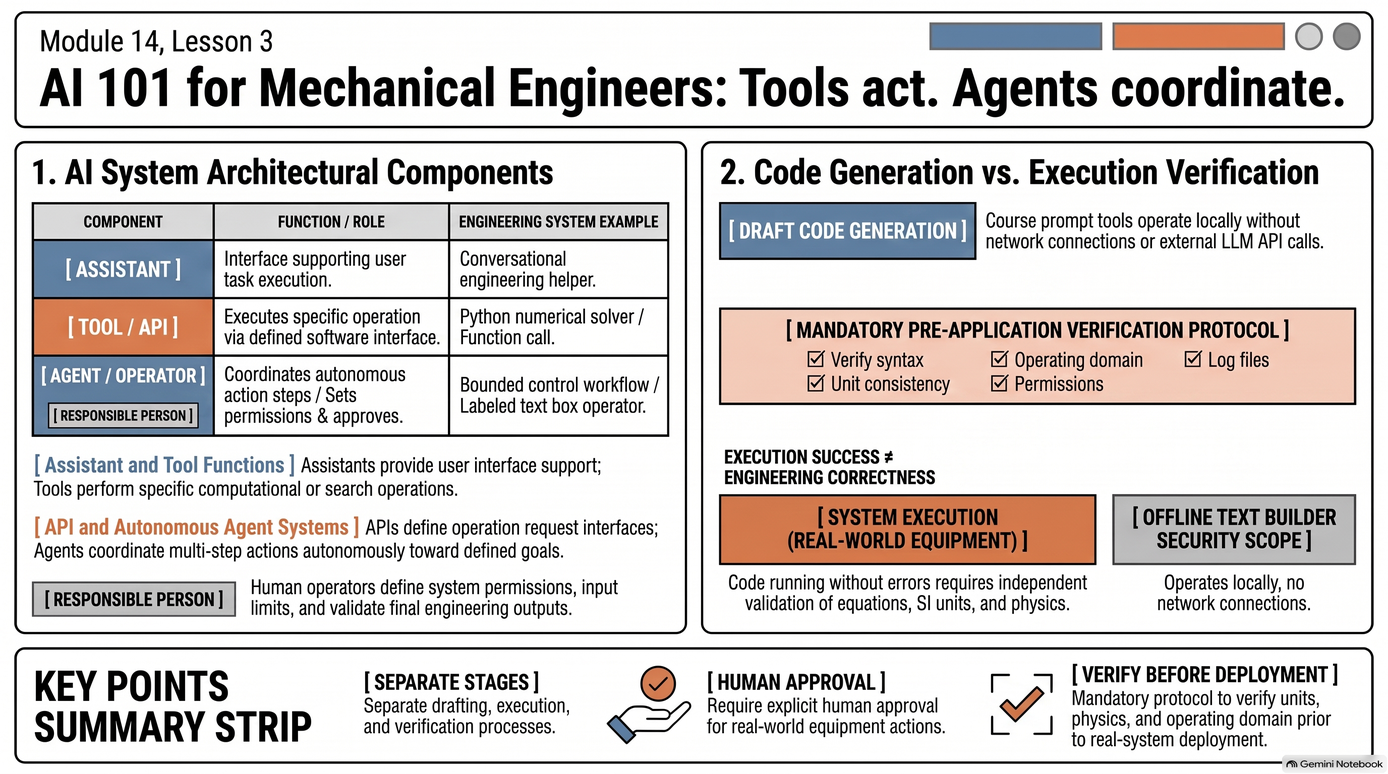
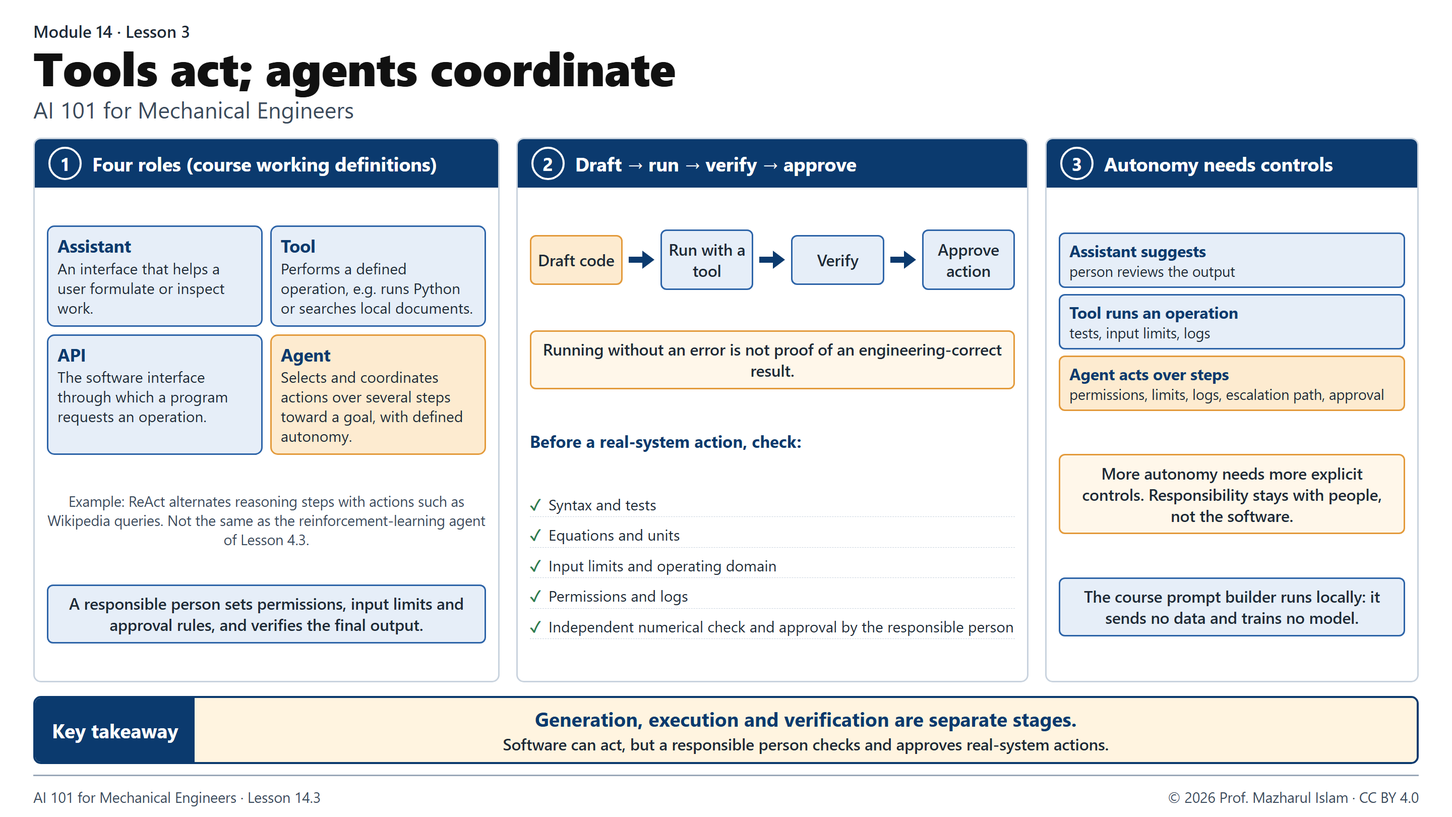
AI 101 Module 14: replace lesson infographics with revised versions
Rebuild 14.1-14.3 from the lesson texts in the course infographic style
and update their alt text.

diff --git a/AI101/AI_101_for_Mechanical_Engineers.html b/AI101/AI_101_for_Mechanical_Engineers.html
@@ -159,7 +159,7 @@ if(review.mindMap)h.append(E('h3',{text:'Gemini Notebook'}),E('p',{},E('a',{href
 h.append(E('h3',{text:'Flashcards'}));deck(h,m.id);h.append(E('div',{class:'actions'},link('Proceed to Quiz',`#/m/${m.num}/quiz`,'btn primary')));
 }
 function modulePage(h,r){let m=MODS[r.n-1];title(h,'Module '+m.num+' / 16',m.title);let tabs=E('nav',{'aria-label':'Module sections',class:'tabs'});m.lessons.forEach((l,i)=>tabs.append(link((P.lessons[l.id]?'✓ ':'')+(i+1)+'. '+l.title,`#/m/${m.num}/${i+1}`,r.sub===String(i+1)?'active':'')));if(WALK[m.id])tabs.append(link('Code',`#/m/${m.num}/code`,r.sub==='code'?'active':''));tabs.append(link('Review',`#/m/${m.num}/review`,['review','cards'].includes(r.sub)?'active':''),link('Quiz',`#/m/${m.num}/quiz`,r.sub==='quiz'?'active':''));h.append(tabs);if(r.sub==='quiz'){let region=E('div');h.append(region);quiz(region,m.id);return;}if(r.sub==='code'){codePage(h,m);return;}if(['review','cards'].includes(r.sub)){moduleReview(h,m);return;}let l=m.lessons[+r.sub-1];h.append(E('h2',{text:l.title}));let outcomes=E('details',{},E('summary',{text:'Module learning outcomes'}));let ul=E('ul');m.outcomes.forEach(o=>ul.append(E('li',{text:o})));outcomes.append(ul);h.append(outcomes);prose(h,l.text);
-const media={m01l1:{video:'5PXqVJoDBgI',audio:'media/1_1-The_Math_Behind_Industrial_AI.m4a',image:'media/1_1-Relationships_Among_AI_Concepts.png',alt:'Lesson 1.1 infographic: AI contains machine learning, which contains deep learning; classification predicts a category while generation produces content; different components need different checks; data science runs from measure and clean to analyse, model and communicate'},m01l2:{video:'FSDlKaTM3Ws',audio:'media/1_2-How_Engineers_Distinguish_AI_From_Automation.m4a',image:'media/1_2-Automation_and_AI_Engineering_Concepts.png',alt:'Lesson 1.2 infographic: a fixed-rule thermostat example of automation; robots sense, decide and act using conventional control, AI or both; narrow AI compared with proposed AGI; five questions on inputs, learned components, outputs, permitted actions and failure consequences'},m01l3:{video:'MOJL4aPNaBY',audio:'media/1_3-Engineering_Decisions_Must_Come_Before_AI.m4a',image:'media/1_3-Defining_an_Engineering_Decision.png',alt:'Lesson 1.3 infographic: deciding whether to request a pump inspection, from measurements through a learned detector, fault score, engineering review and decision; a score is an estimate; operating domain and escalation path; limits of synthetic examples'},m02l1:{video:'ND8u7CSiTqs',audio:'media/2_1-Why_Mechanical_Engineering_Needs_Hybrid_AI.m4a',image:'media/2_1.png',alt:'Lesson 2.1 infographic: physics-based, data-driven and hybrid models compared; pump example with hydraulic power 100,000 Pa × 0.02 m³/s = 2,000 W and input power 2,000 W / 0.8 = 2,500 W; residual r = 2,800 W − 2,500 W = +300 W shows a difference but not its cause'},m02l2:{video:'p4ldXqJdehc',audio:'media/2_2-Why_Mechanical_Engineers_Need_Hybrid_AI.m4a',image:'media/2_2.png',alt:'Lesson 2.2 infographic: table matching prediction, forecasting, diagnosis, control and optimization to what each does and an example; ML training optimization changes model parameters to reduce loss, while engineering optimization changes design or operating variables within physical constraints'},m02l3:{video:'Ldz3IBLDv_Y',audio:'media/2_3-How_Mechanical_Engineers_Use_AI.m4a',image:'media/2_3.png',alt:'Lesson 2.3 infographic: start with the simplest adequate method; when ML might help; four checks of purpose, inputs, baseline and coverage; hybrid pump example with a +300 W residual; compare with the baseline before adding complexity'},m03l1:{video:'bUh9kmRi0_g',audio:'media/3_1-Mapping_Heavy_Machinery_to_Machine_Learning.m4a',image:'media/3_1.png',alt:'Lesson 3.1 infographic: dataset, sample, features, target and label; a pump-test table with flow, pressure rise and shaft speed as features X and measured electrical power as target y; X has shape (120, 3) and y has shape (120,); keep each row matched by test ID'},m03l2:{video:'N0vvkVlTw2o',audio:'media/3_2-Why_Engineering_AI_Needs_Sensor_Metadata.m4a',image:'media/3_2.png',alt:'Lesson 3.2 infographic: metadata such as units, sensor ID, calibration and sampling frequency; raw readings versus a windowed RMS feature; machine IDs and ordinal or nominal categories are not measurements; ground truth is a reference that can contain errors'},m03l3:{video:'O9RXTf5J5-s',audio:'media/3_3-Why_Predictive_AI_Fails_Without_Physics.m4a',image:'media/3_3.png',alt:'Lesson 3.3 infographic: a timeline showing that a repair code recorded after a failure is information leakage for an earlier warning; correlation, prediction and causation compared using flow rate and motor current'},m04l1:{video:'rfXJ_JKeYUs',audio:'media/4_1.m4a',image:'media/4_1.png',alt:'Lesson 4.1 infographic: supervised learning with regression and classification; unsupervised clustering, where a cluster is not automatically a fault category; anomaly alerts that need investigation and independent evidence; semi-supervised learning'},m04l2:{video:'C5h-mjjw18o',audio:'media/4_2.m4a',image:'media/4_2.png',alt:'Lesson 4.2 infographic: masked-signal reconstruction in four steps of observation, constructed input, constructed target and objective; a neural network can use supervised, self-supervised or reinforcement feedback, so architecture does not determine the learning setup'},m04l3:{video:'fgg8jxrDiJw',audio:'media/4_3.m4a',image:'media/4_3.png',alt:'Lesson 4.3 infographic: agent and simulated environment exchanging actions, state and reward; thermal-control example mapping state, action, environment, reward and policy; reward and safety constraints kept separate, beginning with bounded simulation'},m05l1:{video:'0xyZPsXtMyY',audio:'media/5_1.m4a',image:'media/5_1.png',alt:'Lesson 5.1 infographic: warning signs such as negative absolute pressure, duplicate timestamps and mixed W and kW; investigate missing readings before imputing; mean imputation of 20, 22, missing, 24 gives 22, which reduces visible variation; learn replacement values from training data only'},m05l2:{video:'DM1sfD_7cyk',audio:'media/5_2.m4a',image:'media/5_2.png',alt:'Lesson 5.2 infographic: min-max scaling with 25 °C in bounds 0–100 °C giving 0.25; standardization with x = 60 °C, training mean 40 °C and standard deviation 10 °C giving z = 2; one-hot encoding of categories A, B and C; fit on training data and apply stored rules'},m05l3:{video:'6oYBKyxmUFc',audio:'media/5_3.m4a',image:'media/5_3.png',alt:'Lesson 5.3 infographic: build features such as hydraulic power P_h = Δp × Q from engineering knowledge; exclude readings after prediction time; split, fit on training folds, store and apply without refitting; record the input contract of units, missing-value rules and derived features'},m06l1:{video:'M3Wq88DQj0s',audio:'media/6_1.m4a',image:'media/6_1.png',alt:'Lesson 6.1 infographic: a linear model ŷ = b0 + b1·x maps input to prediction while a learning algorithm such as least squares fits its parameters; training, inference and retraining are separate; worked example ŷ = 2 + 3 × 4 = 14'},m06l2:{video:'4SjSZjJOXro',audio:'media/6_2.m4a',image:'media/6_2.png',alt:'Lesson 6.2 infographic: learned parameters, hyperparameters and supplied physical values have different roles; training loss differs from engineering acceptance criteria; MAE and MSE weight errors differently, and a low training loss does not establish safe use'},m06l3:{video:'RSWwn7m9Ph4',audio:'media/6_3.m4a',image:'media/6_3.png',alt:'Lesson 6.3 infographic: compare with a fair baseline on the same examples; the physical baseline MAE of 0.8 kW beats the ML model MAE of 1.2 kW; record the context of a result; a random seed helps repeat a procedure but does not prove accuracy'},m07l1:{video:'M8Mqp4O3bAs',audio:'media/7_1.m4a',image:'media/7_1.png',alt:'Lesson 7.1 infographic: the model ΔT = b0 + b1·P with units K, W, K and K/W; with b0 = 1 K, b1 = 0.6 K/W and P = 10 W the predicted rise is 7 K, and a measured 8 K gives residual +1 K; least squares fits the coefficients, inference applies them'},m07l2:{video:'uvZOy3Jhj5Y',audio:'media/7_2.m4a',image:'media/7_2.png',alt:'Lesson 7.2 infographic: signed residuals of +1, −2 and +3 K; MAE = 2 K and RMSE ≈ 2.160 K, both in target units; R² = 1 − SSE/SST is dimensionless and about −0.1053 here, worse than predicting the mean; inspect residuals by operating condition'},m07l3:{video:'2Czwc72Fchc',audio:'media/7_3.m4a',image:'media/7_3.png',alt:'Lesson 7.3 infographic: define the prediction problem; keep training, validation and final test separate; compare with training-mean and physical baselines and match the split to the task; report units, provenance, held-out metrics and operating limits'},m08l1:{video:'NKojhzCHcZE',audio:'media/8_1.m4a',image:'media/8_1.png',alt:'Lesson 8.1 infographic: a model score is compared with a threshold to predict fault or healthy; a score between 0 and 1 is not automatically a calibrated probability; choose the threshold on validation data; confusion matrix with fault as the positive class showing TP, FN, FP and TN'},m08l2:{video:'zOTYwt-Tr54',audio:'media/8_2.m4a',image:'media/8_2.png',alt:'Lesson 8.2 infographic: with TP = 8, FP = 2, FN = 4 and TN = 86, accuracy is 94%, precision 80%, recall about 66.7% and F1 about 72.7%; each metric answers a different question, and high accuracy alone does not describe fault detection'},m08l3:{video:'b0OM6lczsRk',audio:'media/8_3.m4a',image:'media/8_3.png',alt:'Lesson 8.3 infographic: with 99 healthy cases and 1 fault, always predicting healthy gives 99% accuracy but 0% fault recall; select the threshold on validation and test it separately; an alert leads to evidence review and an authorized decision, weighing false alarms against missed faults'},m09l1:{video:'y80ne8Vybo4',audio:'media/9_1.m4a',image:'media/9_1.png',alt:'Lesson 9.1 infographic: linear regression predicts a number from weighted features; logistic regression estimates a class probability through a link function; k-nearest neighbours uses nearby examples in feature space; a support vector machine learns a separating boundary with a margin; units and scaling change distances; choose methods by evidence'},m09l2:{video:'2YmEhBzF2MY',audio:'media/9_2.m4a',image:'media/9_2.png',alt:'Lesson 9.2 infographic: a decision tree partitions inputs into piecewise regions; a random forest aggregates randomized trees built independently; boosting adds models in sequence to correct remaining errors; a table of each method’s practical concern; learned thresholds are not physical fault limits'},m09l3:{video:'9APUCDA6pVk',audio:'media/9_3.m4a',image:'media/9_3.png',alt:'Lesson 9.3 infographic: k-means groups unlabelled data around chosen centres, and k is not a count of faults; PCA projects data onto high-variance directions, which may miss a rare fault; compare candidates with the same folds and a locked final test; scaling affects distances'},m10l1:{video:'B279XXNadbY',audio:'media/10_1.m4a',image:'media/10_1.png',alt:'Lesson 10.1 infographic: training fits parameters, validation chooses settings and the final test assesses the locked procedure; five-fold cross-validation of 100 examples trains on 80 and validates on 20 each round; match the split to forecasting, unseen equipment or independent designs; many rows do not prove independence'},m10l2:{video:'uMrToW1n1Vg',audio:'media/10_2.m4a',image:'media/10_2.png',alt:'Lesson 10.2 infographic: underfitting misses a relationship while overfitting follows training-specific detail; regularization adds penalties or constraints and L1 can zero coefficients; early stopping selects a checkpoint where validation loss starts to rise, never using the final test'},m10l3:{video:'ZQJwwFjbULQ',audio:'media/10_3.m4a',image:'media/10_3.png',alt:'Lesson 10.3 infographic: four leakage routes of preprocessing, future readings, outcome-derived inputs and duplicate events; fit transformations only inside training folds; exclude the reading at t+1 from a feature for prediction time t; lock the procedure before the final test and record split identifiers, seeds and versions'},m11l1:{video:'6kmxgxU5OtU',audio:'media/11_1.m4a',image:'media/11_1.png',alt:'Lesson 11.1 infographic: a neuron multiplies inputs by weights, adds a bias and applies ReLU, worked to z = 0.2 and a = 0.2; ReLU maps −3 to 0, 0.2 to 0.2 and 2 to 2; three affine layers in series collapse to one affine map y = W′x + b′ with W′ = W₃W₂W₁ and b′ = W₃W₂b₁ + W₃b₂ + b₃, linear only when b′ = 0; values are dimensionless by convention'},m11l2:{video:'HpPJ6ckgXU4',audio:'media/11_2.m4a',image:'media/11_2.png',alt:'Lesson 11.2 infographic: one training step runs prediction, loss L, backpropagation, gradient ∇θL, optimizer and new parameters; the update θ_new = θ_old − η∇θL with θ_old = 2.0, gradient 0.5 and η = 0.1 gives 1.95; the learning rate is a training setting; one update proves neither convergence nor physical validity'},m11l3:{video:'yGjRY3dHNCw',audio:'media/11_3.m4a',image:'media/11_3.png',alt:'Batches, epochs, validation checkpoints and generalization limits infographic'},m12l1:{video:'3mFpYxI7084',audio:'media/12_1.m4a',image:'media/12_1.png',alt:'Lesson 12.1 infographic: tabular data, images and signals need different representations; an MLP processes feature vectors and a CNN applies shared local filters to pixels; a filter response is not a confirmed defect; hold out whole components so test components stay unseen'},m12l2:{video:'iQtAabOUAOw',audio:'media/12_2.m4a',image:'media/12_2.png',alt:'Lesson 12.2 infographic: an RNN carries a hidden state from step to step and an LSTM adds mechanisms to retain information; a transformer weights positions with attention, which does not prove a physical cause; use only inputs available at the forecast issue time'},m12l3:{video:'o1sjsbKAx9c',audio:'media/12_3.m4a',image:'media/12_3.png',alt:'Lesson 12.3 infographic: 15-minute data give 96 samples per day only when complete, so align by timestamps; the forecast horizon runs from issue time to target time; overlapping windows share samples and need chronological or event-level splits'},m13l1:{video:'5BVmXgZNgpg',audio:'media/13_1.m4a',image:'media/13_1.png',alt:'Lesson 13.1 infographic: a language model continues a token sequence, and fluent output is not proof of correct equations, references or assumptions; LLM, foundation model and multimodal model answer different questions; diffusion models reverse a noising process and GANs train a generator against a discriminator; generated explanations, drawings and code need checking, and code must be executed and tested'},m13l2:{video:'Se06_TxJul8',audio:'media/13_2.m4a',image:'media/13_2.png',alt:'Lesson 13.2 infographic: a tokenizer splits text into model-specific units, so word counts do not give token counts; the context window bounds what the model can use and a larger window does not guarantee correct use; the word cell needs its system stated; embeddings are vectors and nearby vectors help retrieve passages without proving a claim'},m13l3:{video:'XoYcvrMW2y8',audio:'media/13_3.m4a',image:'media/13_3.png',alt:'Lesson 13.3 infographic: pretraining and fine-tuning update weights and transfer learning does so only when fine-tuned; zero-shot prompts, few-shot prompts and retrieval supply context without updating weights during the query; the worked case classifies example summaries, a retrieved manual passage and fine-tuning; weight behaviour is not a data-retention policy'},m14l1:{video:'1XHxHqd6P0k',audio:'media/14_1.m4a',image:'media/14_1.png',alt:'Engineering prompt structure and verification infographic'},m14l2:{video:'7oluOfQTwac',audio:'media/14_2.m4a',image:'media/14_2.png',alt:'Retrieval-augmented generation, evidence checks and inference-time context infographic'},m14l3:{video:'-ZsxFY5h02I',audio:'media/14_3.m4a',image:'media/14_3.png',alt:'Engineering tools, APIs, agent coordination and human oversight infographic'},m15l1:{video:'dNbzZDsyR_I',audio:'media/15_1.m4a',image:'media/15_1.png',alt:'Lesson 15.1 infographic: aleatoric uncertainty is variation in observations and epistemic uncertainty is limited knowledge; a point inside the min–max input range can still lack nearby data, so interpolation needs validation and confidence does not justify extrapolation; distribution shift is a difference between data distributions, drift is change over time that can be abrupt, gradual or recurring, and concept drift changes the input–target relationship'},m15l2:{video:'ZDOon3TWimU',audio:'media/15_2.m4a',image:'media/15_2.png',alt:'Verification versus validation, independent physical evidence, provenance and reproducibility infographic'},m15l3:{video:'Kg4aBcgdeC8',audio:'media/15_3.m4a',image:'media/15_3.png',alt:'Output verification, privacy and security, human oversight, disclosure and resource responsibility infographic'},m16l1:{video:'9Q3hvMOewXg',audio:'media/16_1.m4a',image:'media/16_1.png',alt:'Lesson 16.1 infographic: surrogates screen candidates but promising designs need re-evaluation, verification and physical validation; objectives and constraints are separate and infeasible designs fail a limit; a digital model has only manual data exchange, a digital shadow receives data automatically from equipment and a digital twin exchanges data automatically both ways, with definitions varying; physics-informed learning adds an equation residual to the loss and a PINN is one approach, not one architecture'},m16l2:{video:'O-9Nl2pD5po',audio:'media/16_2.m4a',image:'media/16_2.png',alt:'Mini-project scoping, data provenance, fair evaluation, baselines, metrics and reproducibility infographic'},m16l3:{video:'59A56rQ40ts',audio:'media/16_3.m4a',image:'media/16_3.png',alt:'Browser knowledge score versus practical evidence, mini-project rubric, reproducibility and responsible AI-use infographic'}};
+const media={m01l1:{video:'5PXqVJoDBgI',audio:'media/1_1-The_Math_Behind_Industrial_AI.m4a',image:'media/1_1-Relationships_Among_AI_Concepts.png',alt:'Lesson 1.1 infographic: AI contains machine learning, which contains deep learning; classification predicts a category while generation produces content; different components need different checks; data science runs from measure and clean to analyse, model and communicate'},m01l2:{video:'FSDlKaTM3Ws',audio:'media/1_2-How_Engineers_Distinguish_AI_From_Automation.m4a',image:'media/1_2-Automation_and_AI_Engineering_Concepts.png',alt:'Lesson 1.2 infographic: a fixed-rule thermostat example of automation; robots sense, decide and act using conventional control, AI or both; narrow AI compared with proposed AGI; five questions on inputs, learned components, outputs, permitted actions and failure consequences'},m01l3:{video:'MOJL4aPNaBY',audio:'media/1_3-Engineering_Decisions_Must_Come_Before_AI.m4a',image:'media/1_3-Defining_an_Engineering_Decision.png',alt:'Lesson 1.3 infographic: deciding whether to request a pump inspection, from measurements through a learned detector, fault score, engineering review and decision; a score is an estimate; operating domain and escalation path; limits of synthetic examples'},m02l1:{video:'ND8u7CSiTqs',audio:'media/2_1-Why_Mechanical_Engineering_Needs_Hybrid_AI.m4a',image:'media/2_1.png',alt:'Lesson 2.1 infographic: physics-based, data-driven and hybrid models compared; pump example with hydraulic power 100,000 Pa × 0.02 m³/s = 2,000 W and input power 2,000 W / 0.8 = 2,500 W; residual r = 2,800 W − 2,500 W = +300 W shows a difference but not its cause'},m02l2:{video:'p4ldXqJdehc',audio:'media/2_2-Why_Mechanical_Engineers_Need_Hybrid_AI.m4a',image:'media/2_2.png',alt:'Lesson 2.2 infographic: table matching prediction, forecasting, diagnosis, control and optimization to what each does and an example; ML training optimization changes model parameters to reduce loss, while engineering optimization changes design or operating variables within physical constraints'},m02l3:{video:'Ldz3IBLDv_Y',audio:'media/2_3-How_Mechanical_Engineers_Use_AI.m4a',image:'media/2_3.png',alt:'Lesson 2.3 infographic: start with the simplest adequate method; when ML might help; four checks of purpose, inputs, baseline and coverage; hybrid pump example with a +300 W residual; compare with the baseline before adding complexity'},m03l1:{video:'bUh9kmRi0_g',audio:'media/3_1-Mapping_Heavy_Machinery_to_Machine_Learning.m4a',image:'media/3_1.png',alt:'Lesson 3.1 infographic: dataset, sample, features, target and label; a pump-test table with flow, pressure rise and shaft speed as features X and measured electrical power as target y; X has shape (120, 3) and y has shape (120,); keep each row matched by test ID'},m03l2:{video:'N0vvkVlTw2o',audio:'media/3_2-Why_Engineering_AI_Needs_Sensor_Metadata.m4a',image:'media/3_2.png',alt:'Lesson 3.2 infographic: metadata such as units, sensor ID, calibration and sampling frequency; raw readings versus a windowed RMS feature; machine IDs and ordinal or nominal categories are not measurements; ground truth is a reference that can contain errors'},m03l3:{video:'O9RXTf5J5-s',audio:'media/3_3-Why_Predictive_AI_Fails_Without_Physics.m4a',image:'media/3_3.png',alt:'Lesson 3.3 infographic: a timeline showing that a repair code recorded after a failure is information leakage for an earlier warning; correlation, prediction and causation compared using flow rate and motor current'},m04l1:{video:'rfXJ_JKeYUs',audio:'media/4_1.m4a',image:'media/4_1.png',alt:'Lesson 4.1 infographic: supervised learning with regression and classification; unsupervised clustering, where a cluster is not automatically a fault category; anomaly alerts that need investigation and independent evidence; semi-supervised learning'},m04l2:{video:'C5h-mjjw18o',audio:'media/4_2.m4a',image:'media/4_2.png',alt:'Lesson 4.2 infographic: masked-signal reconstruction in four steps of observation, constructed input, constructed target and objective; a neural network can use supervised, self-supervised or reinforcement feedback, so architecture does not determine the learning setup'},m04l3:{video:'fgg8jxrDiJw',audio:'media/4_3.m4a',image:'media/4_3.png',alt:'Lesson 4.3 infographic: agent and simulated environment exchanging actions, state and reward; thermal-control example mapping state, action, environment, reward and policy; reward and safety constraints kept separate, beginning with bounded simulation'},m05l1:{video:'0xyZPsXtMyY',audio:'media/5_1.m4a',image:'media/5_1.png',alt:'Lesson 5.1 infographic: warning signs such as negative absolute pressure, duplicate timestamps and mixed W and kW; investigate missing readings before imputing; mean imputation of 20, 22, missing, 24 gives 22, which reduces visible variation; learn replacement values from training data only'},m05l2:{video:'DM1sfD_7cyk',audio:'media/5_2.m4a',image:'media/5_2.png',alt:'Lesson 5.2 infographic: min-max scaling with 25 °C in bounds 0–100 °C giving 0.25; standardization with x = 60 °C, training mean 40 °C and standard deviation 10 °C giving z = 2; one-hot encoding of categories A, B and C; fit on training data and apply stored rules'},m05l3:{video:'6oYBKyxmUFc',audio:'media/5_3.m4a',image:'media/5_3.png',alt:'Lesson 5.3 infographic: build features such as hydraulic power P_h = Δp × Q from engineering knowledge; exclude readings after prediction time; split, fit on training folds, store and apply without refitting; record the input contract of units, missing-value rules and derived features'},m06l1:{video:'M3Wq88DQj0s',audio:'media/6_1.m4a',image:'media/6_1.png',alt:'Lesson 6.1 infographic: a linear model ŷ = b0 + b1·x maps input to prediction while a learning algorithm such as least squares fits its parameters; training, inference and retraining are separate; worked example ŷ = 2 + 3 × 4 = 14'},m06l2:{video:'4SjSZjJOXro',audio:'media/6_2.m4a',image:'media/6_2.png',alt:'Lesson 6.2 infographic: learned parameters, hyperparameters and supplied physical values have different roles; training loss differs from engineering acceptance criteria; MAE and MSE weight errors differently, and a low training loss does not establish safe use'},m06l3:{video:'RSWwn7m9Ph4',audio:'media/6_3.m4a',image:'media/6_3.png',alt:'Lesson 6.3 infographic: compare with a fair baseline on the same examples; the physical baseline MAE of 0.8 kW beats the ML model MAE of 1.2 kW; record the context of a result; a random seed helps repeat a procedure but does not prove accuracy'},m07l1:{video:'M8Mqp4O3bAs',audio:'media/7_1.m4a',image:'media/7_1.png',alt:'Lesson 7.1 infographic: the model ΔT = b0 + b1·P with units K, W, K and K/W; with b0 = 1 K, b1 = 0.6 K/W and P = 10 W the predicted rise is 7 K, and a measured 8 K gives residual +1 K; least squares fits the coefficients, inference applies them'},m07l2:{video:'uvZOy3Jhj5Y',audio:'media/7_2.m4a',image:'media/7_2.png',alt:'Lesson 7.2 infographic: signed residuals of +1, −2 and +3 K; MAE = 2 K and RMSE ≈ 2.160 K, both in target units; R² = 1 − SSE/SST is dimensionless and about −0.1053 here, worse than predicting the mean; inspect residuals by operating condition'},m07l3:{video:'2Czwc72Fchc',audio:'media/7_3.m4a',image:'media/7_3.png',alt:'Lesson 7.3 infographic: define the prediction problem; keep training, validation and final test separate; compare with training-mean and physical baselines and match the split to the task; report units, provenance, held-out metrics and operating limits'},m08l1:{video:'NKojhzCHcZE',audio:'media/8_1.m4a',image:'media/8_1.png',alt:'Lesson 8.1 infographic: a model score is compared with a threshold to predict fault or healthy; a score between 0 and 1 is not automatically a calibrated probability; choose the threshold on validation data; confusion matrix with fault as the positive class showing TP, FN, FP and TN'},m08l2:{video:'zOTYwt-Tr54',audio:'media/8_2.m4a',image:'media/8_2.png',alt:'Lesson 8.2 infographic: with TP = 8, FP = 2, FN = 4 and TN = 86, accuracy is 94%, precision 80%, recall about 66.7% and F1 about 72.7%; each metric answers a different question, and high accuracy alone does not describe fault detection'},m08l3:{video:'b0OM6lczsRk',audio:'media/8_3.m4a',image:'media/8_3.png',alt:'Lesson 8.3 infographic: with 99 healthy cases and 1 fault, always predicting healthy gives 99% accuracy but 0% fault recall; select the threshold on validation and test it separately; an alert leads to evidence review and an authorized decision, weighing false alarms against missed faults'},m09l1:{video:'y80ne8Vybo4',audio:'media/9_1.m4a',image:'media/9_1.png',alt:'Lesson 9.1 infographic: linear regression predicts a number from weighted features; logistic regression estimates a class probability through a link function; k-nearest neighbours uses nearby examples in feature space; a support vector machine learns a separating boundary with a margin; units and scaling change distances; choose methods by evidence'},m09l2:{video:'2YmEhBzF2MY',audio:'media/9_2.m4a',image:'media/9_2.png',alt:'Lesson 9.2 infographic: a decision tree partitions inputs into piecewise regions; a random forest aggregates randomized trees built independently; boosting adds models in sequence to correct remaining errors; a table of each method’s practical concern; learned thresholds are not physical fault limits'},m09l3:{video:'9APUCDA6pVk',audio:'media/9_3.m4a',image:'media/9_3.png',alt:'Lesson 9.3 infographic: k-means groups unlabelled data around chosen centres, and k is not a count of faults; PCA projects data onto high-variance directions, which may miss a rare fault; compare candidates with the same folds and a locked final test; scaling affects distances'},m10l1:{video:'B279XXNadbY',audio:'media/10_1.m4a',image:'media/10_1.png',alt:'Lesson 10.1 infographic: training fits parameters, validation chooses settings and the final test assesses the locked procedure; five-fold cross-validation of 100 examples trains on 80 and validates on 20 each round; match the split to forecasting, unseen equipment or independent designs; many rows do not prove independence'},m10l2:{video:'uMrToW1n1Vg',audio:'media/10_2.m4a',image:'media/10_2.png',alt:'Lesson 10.2 infographic: underfitting misses a relationship while overfitting follows training-specific detail; regularization adds penalties or constraints and L1 can zero coefficients; early stopping selects a checkpoint where validation loss starts to rise, never using the final test'},m10l3:{video:'ZQJwwFjbULQ',audio:'media/10_3.m4a',image:'media/10_3.png',alt:'Lesson 10.3 infographic: four leakage routes of preprocessing, future readings, outcome-derived inputs and duplicate events; fit transformations only inside training folds; exclude the reading at t+1 from a feature for prediction time t; lock the procedure before the final test and record split identifiers, seeds and versions'},m11l1:{video:'6kmxgxU5OtU',audio:'media/11_1.m4a',image:'media/11_1.png',alt:'Lesson 11.1 infographic: a neuron multiplies inputs by weights, adds a bias and applies ReLU, worked to z = 0.2 and a = 0.2; ReLU maps −3 to 0, 0.2 to 0.2 and 2 to 2; three affine layers in series collapse to one affine map y = W′x + b′ with W′ = W₃W₂W₁ and b′ = W₃W₂b₁ + W₃b₂ + b₃, linear only when b′ = 0; values are dimensionless by convention'},m11l2:{video:'HpPJ6ckgXU4',audio:'media/11_2.m4a',image:'media/11_2.png',alt:'Lesson 11.2 infographic: one training step runs prediction, loss L, backpropagation, gradient ∇θL, optimizer and new parameters; the update θ_new = θ_old − η∇θL with θ_old = 2.0, gradient 0.5 and η = 0.1 gives 1.95; the learning rate is a training setting; one update proves neither convergence nor physical validity'},m11l3:{video:'yGjRY3dHNCw',audio:'media/11_3.m4a',image:'media/11_3.png',alt:'Batches, epochs, validation checkpoints and generalization limits infographic'},m12l1:{video:'3mFpYxI7084',audio:'media/12_1.m4a',image:'media/12_1.png',alt:'Lesson 12.1 infographic: tabular data, images and signals need different representations; an MLP processes feature vectors and a CNN applies shared local filters to pixels; a filter response is not a confirmed defect; hold out whole components so test components stay unseen'},m12l2:{video:'iQtAabOUAOw',audio:'media/12_2.m4a',image:'media/12_2.png',alt:'Lesson 12.2 infographic: an RNN carries a hidden state from step to step and an LSTM adds mechanisms to retain information; a transformer weights positions with attention, which does not prove a physical cause; use only inputs available at the forecast issue time'},m12l3:{video:'o1sjsbKAx9c',audio:'media/12_3.m4a',image:'media/12_3.png',alt:'Lesson 12.3 infographic: 15-minute data give 96 samples per day only when complete, so align by timestamps; the forecast horizon runs from issue time to target time; overlapping windows share samples and need chronological or event-level splits'},m13l1:{video:'5BVmXgZNgpg',audio:'media/13_1.m4a',image:'media/13_1.png',alt:'Lesson 13.1 infographic: a language model continues a token sequence, and fluent output is not proof of correct equations, references or assumptions; LLM, foundation model and multimodal model answer different questions; diffusion models reverse a noising process and GANs train a generator against a discriminator; generated explanations, drawings and code need checking, and code must be executed and tested'},m13l2:{video:'Se06_TxJul8',audio:'media/13_2.m4a',image:'media/13_2.png',alt:'Lesson 13.2 infographic: a tokenizer splits text into model-specific units, so word counts do not give token counts; the context window bounds what the model can use and a larger window does not guarantee correct use; the word cell needs its system stated; embeddings are vectors and nearby vectors help retrieve passages without proving a claim'},m13l3:{video:'XoYcvrMW2y8',audio:'media/13_3.m4a',image:'media/13_3.png',alt:'Lesson 13.3 infographic: pretraining and fine-tuning update weights and transfer learning does so only when fine-tuned; zero-shot prompts, few-shot prompts and retrieval supply context without updating weights during the query; the worked case classifies example summaries, a retrieved manual passage and fine-tuning; weight behaviour is not a data-retention policy'},m14l1:{video:'1XHxHqd6P0k',audio:'media/14_1.m4a',image:'media/14_1.png',alt:'Lesson 14.1 infographic: build an engineering prompt with task, audience and system, values with units, assumptions and output format; the PV teaching case gives P_DC = 0.20 × 20 m² × 800 W/m² = 3,200 W and P_AC = 3,072 W, and 3,200 kW would be a factor-of-1,000 error; 3.072 kW for 2 h is 6.144 kWh, not a daily yield; zero-shot prompts have no demonstrations and few-shot prompts add examples'},m14l2:{video:'7oluOfQTwac',audio:'media/14_2.m4a',image:'media/14_2.png',alt:'Lesson 14.2 infographic: RAG runs query, retrieve, add to context and generate, with a check at each stage; supplying a passage does not update weights; before using a retrieved operating limit, check the equipment and part number, the active revision and that the wording supports the claim; grounding and citation labels are not proof'},m14l3:{video:'-ZsxFY5h02I',audio:'media/14_3.m4a',image:'media/14_3.png',alt:'Lesson 14.3 infographic: course working definitions of assistant, tool, API and agent; generated code is drafted, run, verified and approved as separate stages, and running without error is not proof; checks include tests, units, input limits, permissions, logs and approval; more autonomy needs more explicit controls and responsibility stays with people'},m15l1:{video:'dNbzZDsyR_I',audio:'media/15_1.m4a',image:'media/15_1.png',alt:'Lesson 15.1 infographic: aleatoric uncertainty is variation in observations and epistemic uncertainty is limited knowledge; a point inside the min–max input range can still lack nearby data, so interpolation needs validation and confidence does not justify extrapolation; distribution shift is a difference between data distributions, drift is change over time that can be abrupt, gradual or recurring, and concept drift changes the input–target relationship'},m15l2:{video:'ZDOon3TWimU',audio:'media/15_2.m4a',image:'media/15_2.png',alt:'Verification versus validation, independent physical evidence, provenance and reproducibility infographic'},m15l3:{video:'Kg4aBcgdeC8',audio:'media/15_3.m4a',image:'media/15_3.png',alt:'Output verification, privacy and security, human oversight, disclosure and resource responsibility infographic'},m16l1:{video:'9Q3hvMOewXg',audio:'media/16_1.m4a',image:'media/16_1.png',alt:'Lesson 16.1 infographic: surrogates screen candidates but promising designs need re-evaluation, verification and physical validation; objectives and constraints are separate and infeasible designs fail a limit; a digital model has only manual data exchange, a digital shadow receives data automatically from equipment and a digital twin exchanges data automatically both ways, with definitions varying; physics-informed learning adds an equation residual to the loss and a PINN is one approach, not one architecture'},m16l2:{video:'O-9Nl2pD5po',audio:'media/16_2.m4a',image:'media/16_2.png',alt:'Mini-project scoping, data provenance, fair evaluation, baselines, metrics and reproducibility infographic'},m16l3:{video:'59A56rQ40ts',audio:'media/16_3.m4a',image:'media/16_3.png',alt:'Browser knowledge score versus practical evidence, mini-project rubric, reproducibility and responsible AI-use infographic'}};
 let extra=media[l.id];if(extra){
 let box=E('section',{class:'learning-media','aria-label':'Lesson learning resources'});
 {let ns=[...new Set([...l.text.matchAll(/\[(\d{1,3})(?:, (?:Sec|Ch|p|pp)\.\s?[^\]]{1,30})?\]/g)].map(x=>+x[1]))].sort((a,b)=>a-b);box.append(E('p',{class:'small resource-note'},'These resources summarise the written lesson above. If a resource differs from the written lesson, follow the written lesson. The slides, video and audio narration have not yet been checked word by word against it.',...(ns.length?[' Sources for this lesson: ',...cites(ns.map(n=>'['+n+']').join(', ')),'.']:[])));}
